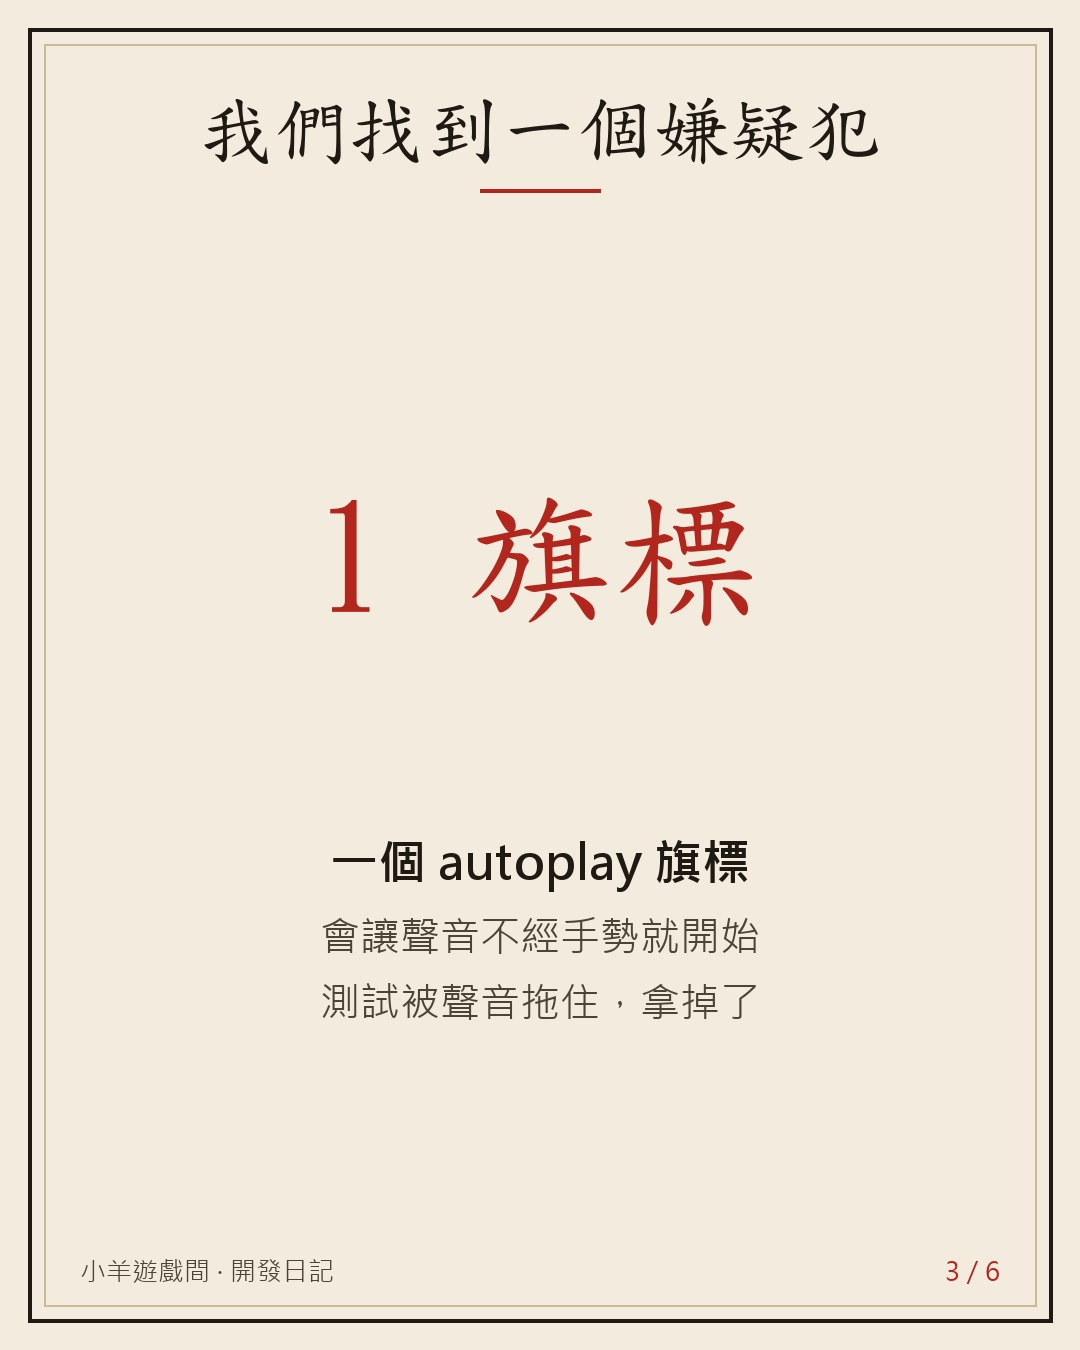
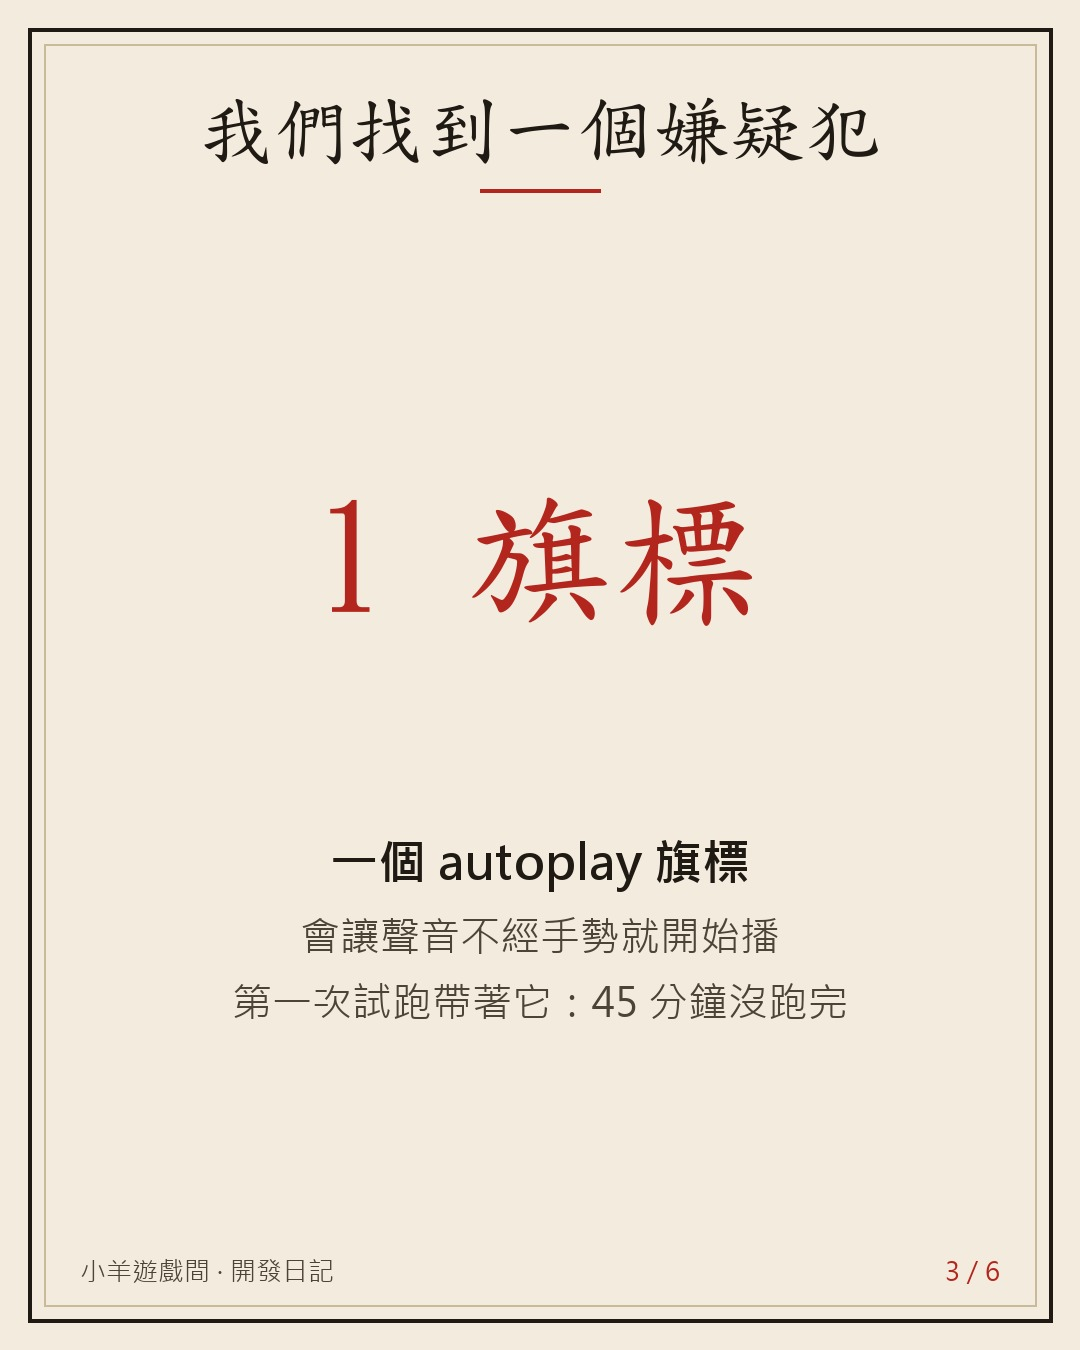
vault backup: 2026-11-07 20:22:49

Changed region(s): [[0.275, 0.6844, 0.7944, 0.7778], [0.2139, 0.7156, 0.2444, 0.7467]]

diff --git a/Projects/auto promotion/posts/54.md b/Projects/auto promotion/posts/54.md
@@ -1,0 +1,84 @@
+---
+id: 54
+type: devnote
+game: china_life
+topic: "生在中國：想把畫面測試平行跑變快，量到更慢（11/6 台灣；tools/ui_parallel.mjs；65 組；同 14 組逐組 8 分、新工具 1 個 Chrome 14 分、4 個平行 3 個 shard 45 分鐘沒跑完；autoplay 旗標嫌疑；原因未查明；TEAM.md 規定小改動只跑受影響的組、全套每批部署前與每天至少一次）"
+status: 待發
+created: 2026-11-08 13:10
+score: 8.1
+---
+# 我想讓測試快 4 倍，量出來慢了
+
+## Threads
+### 1
+我想讓《生在中國》的測試快 4 倍，結果量出來慢了。
+
+《生在中國》是選到死的古代人生模擬，以前每次改它都要先過畫面測試，共 65 組（一組＝一項畫面檢查），一直是「一個無頭 Chrome 逐組跑」。11/6 我們寫了個工具：開 4 個 Chrome 一起跑，不就快 4 倍？
+![[54/01.jpg]]
+### 2
+同樣 14 組，量到的數字：
+・逐組跑：8 分鐘
+・新工具，只開 1 個 Chrome：14 分鐘
+・新工具，4 個一起跑：其中 3 個，45 分鐘還沒跑完
+比舊的慢，而且慢很多。
+![[54/02.jpg]]
+### 3
+我們抓到一個嫌疑犯：第一次試跑時，啟動 Chrome 多帶了一個 autoplay 旗標，會讓聲音不經手勢就開始播，後來拿掉了，程式裡有註解記著。
+但我不確定 14 分鐘那次有沒有帶它。原因還沒查清楚。
+![[54/03.jpg]]
+### 4
+另一個懷疑：同一台電腦上，別的 session 同時在跑東西，搶資源。這只是懷疑，我沒有證據，所以規則裡是這樣寫的：「查清楚之前不要依賴它」。
+工具先放進 repo，標成「試驗中」。
+![[54/04.jpg]]
+### 5
+現在的規則（寫在 TEAM.md）：
+・小改動只跑受影響的那幾組（改 styles 跑哪幾組、改 engine 跑哪幾組，有一張對照表）
+・全套：每一批部署前、每天至少一次
+我學到的：先量一個基準，再一次只換一個變數。
+
+你最慘的「優化完反而更慢」差多少？留言告訴我。下一篇：那張「小改動該跑哪幾組」的對照表怎麼排。
+### 連結
+更多點了就玩的網頁小遊戲，都在小羊遊戲間 👉 https://games.csiesheep.com/
+
+## Instagram
+《生在中國》是選到死的古代人生模擬，畫面測試有 65 組，一直是一個 Chrome 逐組跑。11/6 我想：開 4 個一起跑，不就快 4 倍？
+量出來：同樣 14 組，逐組 8 分鐘；新工具只開 1 個 Chrome 要 14 分鐘；4 個一起跑，3 個 45 分鐘還沒跑完。比舊的慢。
+嫌疑犯之一是 autoplay 旗標（後來拿掉），另一個懷疑是同機其他 session 搶資源，但原因還沒查清楚，所以工具標「試驗中」，小改動只跑受影響的那幾組。
+你最慘的「優化完反而更慢」差多少？留言告訴我。連結在主頁
+#生在中國 #開發日記 #網頁遊戲 #獨立遊戲
+卡片：![[54/01.jpg]] ![[54/02.jpg]] ![[54/03.jpg]] ![[54/04.jpg]] ![[54/05.jpg]] ![[54/06.jpg]]
+
+## Facebook
+我想讓測試快 4 倍，量出來慢了 ⏱
+
+《生在中國》是選到死的古代人生模擬：你投胎成某個人，一年一年做選擇，直到去世。改動前都要先過畫面測試，共 65 組（一組＝一項畫面檢查），一直是一個無頭 Chrome 逐組跑。
+
+11/6 我們寫了一個平行工具：開 4 個 Chrome 一起跑，不就快 4 倍？
+
+同樣 14 組，量到的是：
+・逐組跑：8 分鐘
+・新工具，只開 1 個 Chrome：14 分鐘
+・新工具，4 個一起跑：其中 3 個，45 分鐘還沒跑完
+
+我們抓到一個嫌疑犯：第一次試跑時，啟動 Chrome 多帶了一個 autoplay 旗標，會讓聲音不經手勢就開始播，後來拿掉了。我不確定 14 分鐘那次有沒有帶它。另一個懷疑是同一台電腦上別的 session 同時在跑東西。但這是懷疑，不是結論，原因還沒查清楚。
+
+所以我們沒有硬上：工具先放進 repo，標成「試驗中」，規則寫進 TEAM.md：查清楚之前不要依賴它。小改動只跑受影響的那幾組；全套每一批部署前、每天至少一次。
+
+我學到的：先量一個基準，再一次只換一個變數。
+
+你最慘的「優化完反而更慢」差多少？留言告訴我。下一篇：那張「小改動該跑哪幾組」的對照表怎麼排。
+更多點了就玩的網頁小遊戲 👉 https://games.csiesheep.com/
+相簿：同 Instagram 卡片
+
+## Sources
+- china_life repo 提交 a830a7c（2026-11-06 美西 18:31）TEAM.md「驗證要跑多少」一節 — 8／14／45 分鐘、規則、對照表
+- china_life repo tools/ui_parallel.mjs — 開 N 個 Chrome 分組、autoplay 旗標註解
+- china_life repo tests/ui_acceptance.js — 65 組（section 數）
+
+## 打磨紀錄
+| 回合 | 平均 | 主要修改 |
+|---|---|---|
+| 1 | 7.8 | 補遊戲介紹、卡 3 去掉無據因果、換問題 |
+| 2 | 8.1 | 修時間線（不確定哪次帶旗標）、「以前」、「我們寫了」 |
+
+## 發文紀錄

diff --git a/Projects/auto promotion/2026-11-08.md b/Projects/auto promotion/2026-11-08.md
@@ -128,3 +128,6 @@
 | 12:17 | promo-producer | 開始 | 待發：卡2 Reel3 鬼唱詩1(寫作中,不新做)；貼文 熱門4／日記3 → 寫一篇開發日記 |  |
 | 12:17 | games-replies-post-1200 | 發文 | C1 已發 Threads 12:17 | https://www.threads.com/@csiesheep.games/post/Dfd4PTWlLC1 |
 | 12:17 | games-replies-post-1200 | 完成 | 已發 Threads 2、IG 0、未發 0；Threads 留在 csiesheep.games |  |
+| 12:19 | promo-producer | 完成 | 開發日記 #54「我想讓測試快 4 倍，量出來慢了」待發（posts/54，評審 8.1，兩回合）；貼文 熱門4／日記4；卡2 Reel3 鬼唱詩1(寫作中) |  |
+| 12:21 | ghost-reply-post-1300 | 發文 | Threads 一般回覆 avaaaqvq 長期沒人住的房間 | https://www.threads.com/@gui.chang.shi/replies |
+| 12:21 | ghost-reply-post-1300 | 發文 | IG 一般回覆 02thinking 巴西瀑布黑影 | https://www.instagram.com/p/DfchPyATHge/c/17916870141494144/ |
